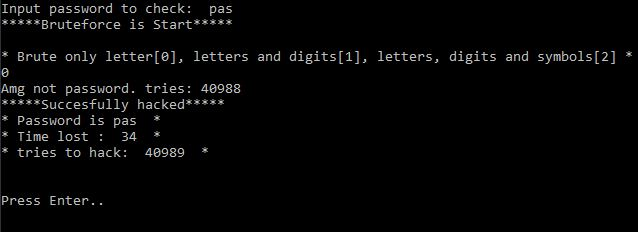
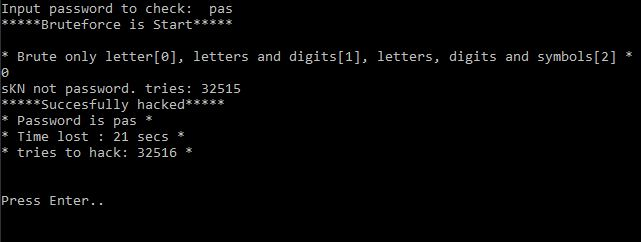
Add files via upload

diff --git a/bruteforce.py b/bruteforce.py
@@ -34,8 +34,9 @@ def bruteforce(host):
                         if brutePass == host:
                                 end = time()
                                 print('\n*****Succesfully hacked*****')
-                                print('* Password is', brutePass ,' *\n* Time lost : ', round(end - start),
-                                        ' *\n* tries to hack: ', tries ,' *\a\a')
+                                print('* Password is {} *'.format(brutePass))
+                                print('* Time lost : {} secs *'.format(round(end - start)))
+                                print('* tries to hack: {} *\a\a'.format(tries))
                                 cycle = False
                                 DeniedPass = None
                         else:
